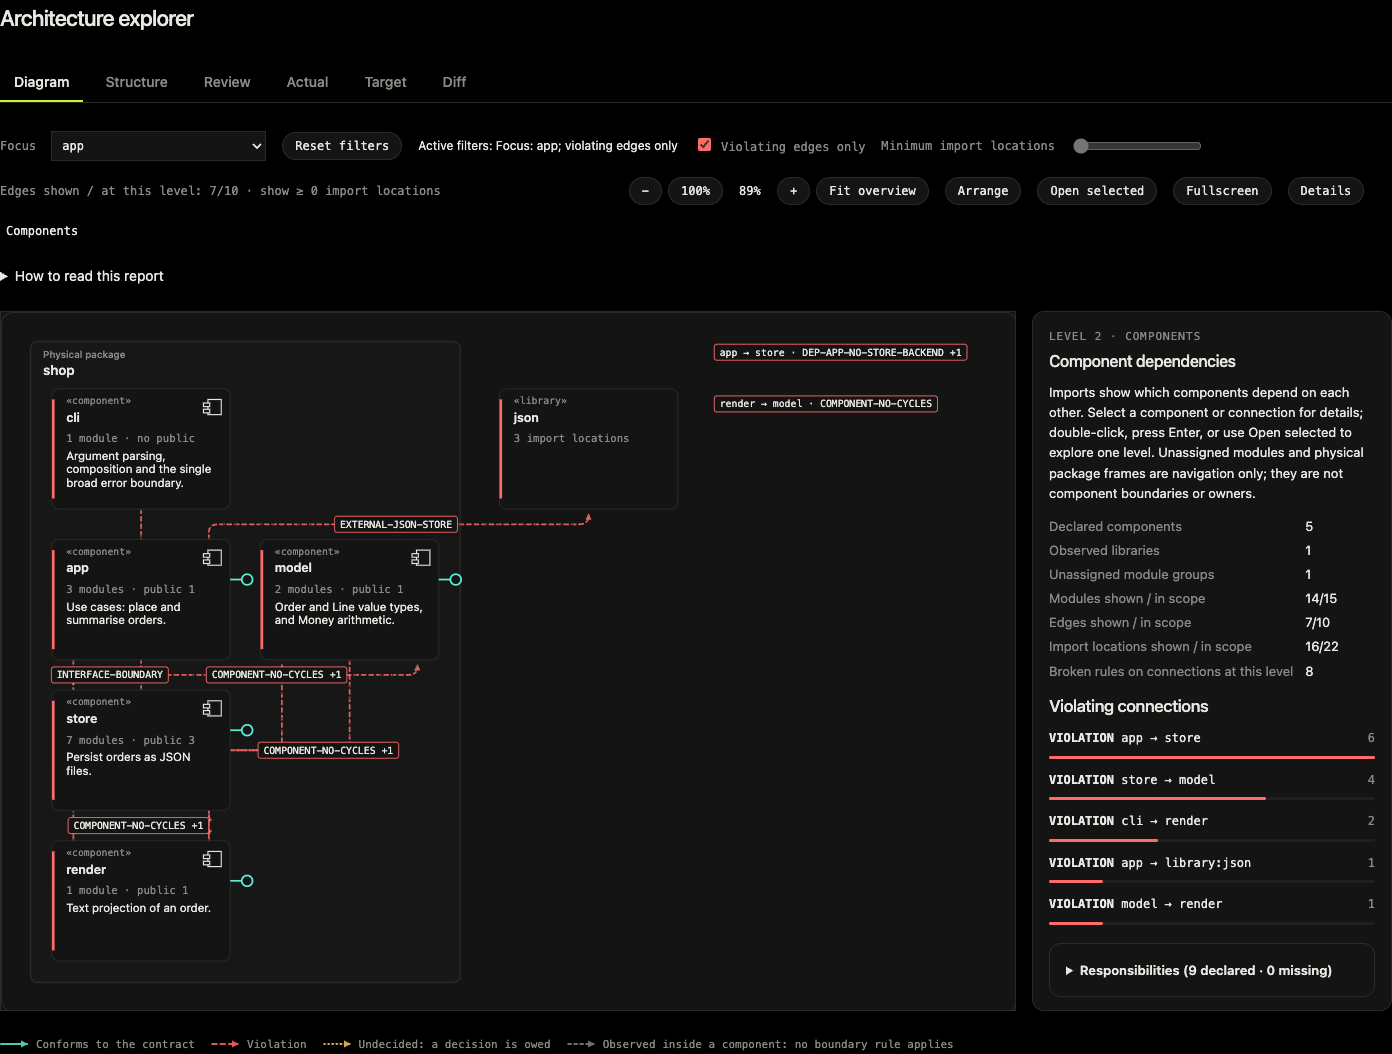
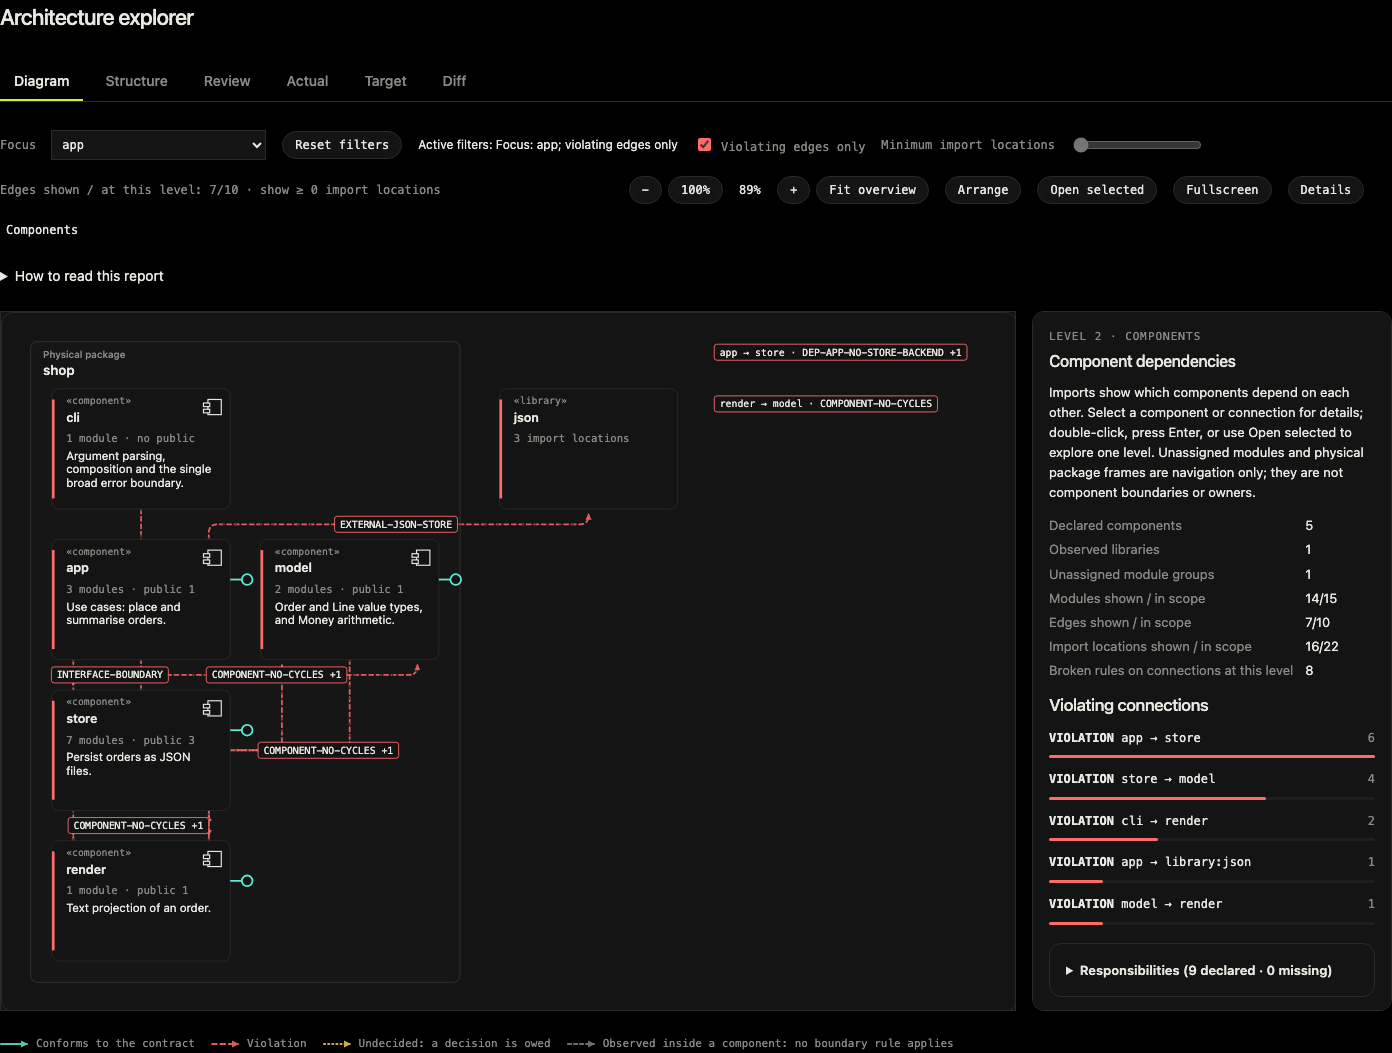
Keep compact Target routes outside cards

diff --git a/src/archkeel/render/assets/flow.js b/src/archkeel/render/assets/flow.js
@@ -1598,7 +1598,8 @@
     const my = (startY + endY) / 2 + laneOffset;
     const dir = Math.sign(tx - sx);
     const vdir = Math.sign(endY - startY) || 1;
-    const r = Math.min(10, Math.abs(tx - sx) / 2);
+    const r = Math.min(10, Math.abs(tx - sx) / 2, viewMode === "target"
+      ? Math.min(Math.abs(my - startY), Math.abs(endY - my)) / 2 : 10);
     const end = targetAnchor || viewMode === "target" ? endY : endY - vdir * 6;
     const frameSideLead = (frame, anchor) => [
       anchor.x + (anchor.x === frame.left ? -14 : 14), anchor.y,
@@ -1626,11 +1627,12 @@
   function routeAroundHeaders(direct, points, sx, sy, tx, end, headers, edge, frames) {
     const cards = Object.entries(positions).filter(([id, position]) =>
       !frames[id] && Number.isFinite(position.x) && Number.isFinite(position.y));
-    const obstacles = viewMode === "target" ? [...headers, ...cards
-      .filter(([id]) => id !== edge.source && id !== edge.target)
-      .map(([, position]) => ({left: position.x, right: position.x + CARD.w,
-        top: position.y, bottom: position.y + CARD.h}))] : headers;
-    if (!obstacles.length || routePointsClear(points, obstacles, 10)) return direct;
+    const cardBounds = cards.map(([, position]) => ({
+      left: position.x, right: position.x + CARD.w,
+      top: position.y, bottom: position.y + CARD.h,
+    }));
+    if (routePointsClear(points, headers, 10)
+        && (viewMode !== "target" || routePointsClear(points, cardBounds, 0))) return direct;
     const allLeft = Math.min(...[
       ...headers.map((header) => header.left),
       ...cards.map(([, position]) => position.x),
@@ -1646,8 +1648,10 @@
     ])];
     const sourceCard = frames[edge.source] ? null : positions[edge.source];
     const targetCard = frames[edge.target] ? null : positions[edge.target];
-    const sourceDirection = Math.sign(points[1]?.[1] - sy) || Math.sign(end - sy) || 1;
-    const endDirection = Math.sign(end - points.at(-2)?.[1]) || Math.sign(end - sy) || 1;
+    const sourceDirection = sourceCard ? Math.sign(sy - sourceCard.y - CARD.h / 2)
+      : Math.sign(points[1]?.[1] - sy) || Math.sign(end - sy) || 1;
+    const endDirection = targetCard ? Math.sign(targetCard.y + CARD.h / 2 - end)
+      : Math.sign(end - points.at(-2)?.[1]) || Math.sign(end - sy) || 1;
     const normalSource = frames[edge.source]
       ? { point: [sx, sy], lead: points[1], axis: "horizontal" }
       : { point: [sx, sy], lead: [sx, sy + sourceDirection * 14], axis: "vertical" };

diff --git a/tests/test_target_readability.py b/tests/test_target_readability.py
@@ -83,3 +83,109 @@ def test_folded_layout_remains_openable_from_its_component_details(tmp_path: Pat
             assert page.locator('[data-target-node="physical:shop.app.orders"]').count() == 1
         finally:
             browser.close()
+
+
+def test_compact_target_requirements_do_not_cross_component_cards(tmp_path: Path) -> None:
+    from test_consistent_explorer_acceptance import _replace_flow_payload
+    from test_target_hierarchy_independent_acceptance import _cross_frame_domains_page
+
+    api = pytest.importorskip("playwright.sync_api")
+    html, payload = _cross_frame_domains_page(tmp_path)
+    graph = payload["explorers"]["target_diagrams"]["root"]
+    ranks = {
+        "authoring": 1,
+        "domains": 3,
+        "dsl": 5,
+        "errors": 6,
+        "interfaces": 0,
+        "io": 4,
+        "python_compat": 6,
+        "randomness": 6,
+        "resources": 1,
+        "runtime": 2,
+    }
+
+    def node_id(name: str) -> str:
+        return "COMP-" + name.upper().replace("_", "-")
+
+    graph["nodes"] = [n for n in graph["nodes"] if n["id"] in graph["containers"]]
+    graph["nodes"].extend(
+        {
+            "id": node_id(name),
+            "kind": "component",
+            "label": name,
+            "dependency_rank": rank,
+            "details": [
+                {
+                    "label": "Responsibility",
+                    "value": "Keep the shared structural contract and reusable primitives "
+                    "below the runtime, "
+                    "without adding lifecycle or generation policy.",
+                }
+            ],
+        }
+        for name, rank in ranks.items()
+    )
+    for key, container in graph["containers"].items():
+        container["members"] = [
+            node_id(n)
+            for n in ranks
+            if (n in {"dsl", "io", "runtime"}) == (key == "layout:LAYOUT-ENGINE")
+        ]
+    requires = {
+        "authoring": ("domains", "dsl", "io", "python_compat", "runtime"),
+        "domains": ("dsl", "errors", "io", "randomness"),
+        "dsl": ("python_compat",),
+        "interfaces": ("authoring", "domains", "python_compat", "resources", "runtime"),
+        "io": ("dsl", "randomness"),
+        "resources": ("domains", "dsl", "io", "runtime"),
+        "runtime": ("domains", "dsl", "io", "python_compat", "randomness"),
+    }
+    graph["edges"] = [
+        {
+            "source": node_id(source),
+            "target": node_id(target),
+            "kind": "requires",
+            "declaration": f"requires:{source}:{target}",
+            "details": [],
+            "label": "requires",
+        }
+        for source, targets in requires.items()
+        for target in targets
+    ]
+    html = _replace_flow_payload(html, payload)
+    with api.sync_playwright() as playwright:
+        browser = playwright.chromium.launch()
+        try:
+            page = browser.new_page(viewport={"width": 1024, "height": 768})
+            page.set_content(html, wait_until="load")
+            page.locator('[data-flow-view="target"]').click()
+            page.locator(".flow-fullscreen").click()
+            page.locator(".flow-fit-overview").click()
+            crossings = page.evaluate("""() => {
+              const graph = JSON.parse(document.querySelector('#flow-data').textContent)
+                .explorers.target_diagrams.root;
+              const cards = [...document.querySelectorAll('.target-node:not(.target-container)')]
+                .map(n => ({id: n.dataset.targetNode,
+                  rect: n.querySelector('rect').getBoundingClientRect()}));
+              const hits = [];
+              for (const node of document.querySelectorAll('.target-edge')) {
+                const edge = graph.edges.find(e => e.declaration === node.dataset.targetEdge);
+                const path = node.querySelector('path.line'), matrix = path.getScreenCTM();
+                for (let s = 2; s < path.getTotalLength() - 2; s += 2) {
+                  const point = path.getPointAtLength(s);
+                  const p = new DOMPoint(point.x, point.y).matrixTransform(matrix);
+                  for (const card of cards) {
+                    const r = card.rect;
+                    if (p.x > r.left + 2 && p.x < r.right - 2
+                        && p.y > r.top + 2 && p.y < r.bottom - 2)
+                      hits.push([edge.declaration, card.id]);
+                  }
+                }
+              }
+              return hits;
+            }""")
+            assert not crossings, crossings
+            assert page.locator("[data-route-warning]").count() == 0
+        finally:
+            browser.close()

diff --git a/fixtures/architecture_demo.py b/fixtures/architecture_demo.py
@@ -100,8 +100,9 @@ _TARGET_HIERARCHY_NOTE = (
     "`requires.through` remain declaration details. A null dependency rank can mean a cycle or a "
     "dependent of one, so it does not name an SCC or change the architecture verdict. Browser "
     "acceptance checks 100% initial zoom, native scrolling, collapsed Details, and selection "
-    "identity across Actual, Target and Diff. The CE preview was accepted on 1 October; the "
-    "report does not certify CE completion."
+    "identity across Actual, Target and Diff. Ranked components share width-aware rows; owner "
+    "Details holds rule metadata. Target Fit keeps readable names and scrolls larger scopes "
+    "(AD-139). The report does not certify CE completion."
 )
 _BROWSER_NOTE = (
     "`make report-browser OUTPUT=<fresh-directory>` captures the current README views. The "
